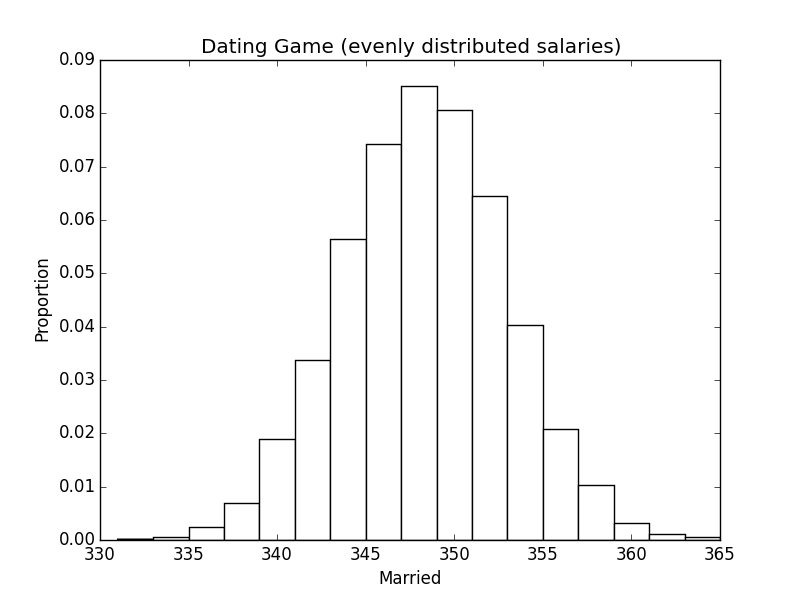
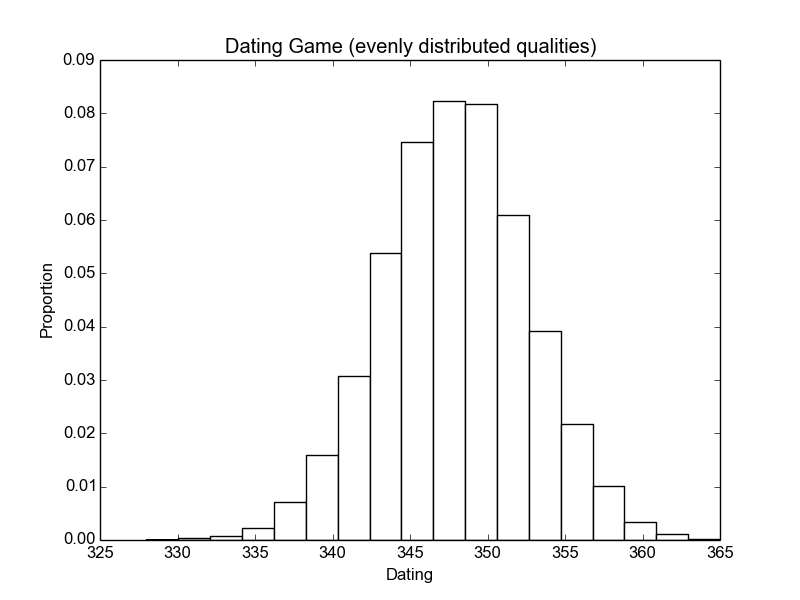
renamed some scripts in sim5 + added sim6 (gambling martingales and random walks)

diff --git a/src/sim5/quality_03.py b/src/sim5/quality_03.py
@@ -20,7 +20,7 @@ def simulation(men, women, pool_size):
 
 def print_results(results):
     print()
-    print('Dating Game (evenly distributed salaries)')
+    print('Dating Game (evenly distributed qualities)')
     print()
     print('           Minimum: %s' % (np.amin(results)))
     print('   25th Percentile: %s' % (np.percentile(results, 25)))
@@ -38,11 +38,11 @@ def print_results(results):
 def plot_results(results, pool_size):
     plt.clf()
     plt.figure(1, facecolor = 'w')
-    plt.hist(results, color = 'white', bins = (np.max(results) - np.min(results)) / 2, normed = True)
-    plt.title('Dating Game (evenly distributed salaries)')
-    plt.xlabel('Salary')
+    plt.hist(results, color = 'white', bins = (np.max(results) - np.min(results)), normed = True)
+    plt.title('Dating Game (evenly distributed qualities)')
+    plt.xlabel('Quality')
     plt.ylabel('Proportion')
-    plt.savefig('./src/sim5/images/salary_even_%s_%s.png' % (pool_size, len(results)), format = 'png')
+    plt.savefig('./src/sim5/images/quality_even_%s_%s.png' % (pool_size, len(results)), format = 'png')
     plt.close()
 
 
@@ -53,8 +53,8 @@ def main(argv):
 
     results = []
     for _ in range(iterations):
-        men     = [200 * (float(val) / pool_size) for val in range(pool_size)]
-        women   = [200 * (float(val) / pool_size) for val in range(pool_size)]
+        men     = [100 * (float(val) / pool_size) for val in range(pool_size)]
+        women   = [100 * (float(val) / pool_size) for val in range(pool_size)]
         results.append(simulation(men, women, pool_size))
 
     print_results(results)

diff --git a/src/sim5/quality_01.py b/src/sim5/quality_01.py
@@ -20,7 +20,7 @@ def simulation(men, women, pool_size):
 
 def print_results(results):
     print()
-    print('Dating Game (uniformly distributed salaries)')
+    print('Dating Game (uniformly distributed qualities)')
     print()
     print('           Minimum: %s' % (np.amin(results)))
     print('   25th Percentile: %s' % (np.percentile(results, 25)))
@@ -39,10 +39,10 @@ def plot_results(results, pool_size):
     plt.clf()
     plt.figure(1, facecolor = 'w')
     plt.hist(results, color = 'white', bins = (np.max(results) - np.min(results)) / 2, normed = True)
-    plt.title('Dating Game (uniformly distributed salaries)')
-    plt.xlabel('Salary')
+    plt.title('Dating Game (uniformly distributed qualities)')
+    plt.xlabel('Quality')
     plt.ylabel('Proportion')
-    plt.savefig('./src/sim5/images/salary_uniform_%s_%s.png' % (pool_size, len(results)), format = 'png')
+    plt.savefig('./src/sim5/images/quality_uniform_%s_%s.png' % (pool_size, len(results)), format = 'png')
     plt.close()
 
 
@@ -53,8 +53,8 @@ def main(argv):
 
     results = []
     for _ in range(iterations):
-        men     = np.random.random_integers(0, 200, pool_size).tolist()
-        women   = np.random.random_integers(0, 200, pool_size).tolist()
+        men     = np.random.random_integers(0, 100, pool_size).tolist()
+        women   = np.random.random_integers(0, 100, pool_size).tolist()
         results.append(simulation(men, women, pool_size))
 
     print_results(results)

diff --git a/src/sim6/gamble_02.py b/src/sim6/gamble_02.py
@@ -1,0 +1,63 @@
+import sys
+import random
+
+import numpy             as np
+import matplotlib.pyplot as plt
+
+
+
+def simulation(amount, margin):
+    target = amount + margin
+    stake  = 1
+
+    while 0 < amount < target:
+        if random.random() < 0.5:
+            amount += stake
+        else:
+            amount -= stake
+            stake  *= 2
+
+    return amount > 0
+
+
+
+def print_results(iterations, count, margin, amount):
+    winnings   = count * margin
+    losses     = (iterations - count) * amount
+    proportion = count / float(iterations)
+
+    print()
+    print('Gambling Simulation - %s iterations' % (iterations))
+    print()
+    print(' Probability')
+    print('       Successes: %15s'   % (count))
+    print('      Proportion: %15.3f' % (proportion))
+    print(' Expected Profit: %15.3f' % ((proportion * margin) - ((1 - proportion) * amount)))
+    print()
+    print(' Balance Sheet')
+    print('  Total Winnings: %15.3f' % (winnings))
+    print('    Total Losses: %15.3f' % (losses))
+    print('   Actual Profit: %15.3f' % (winnings - losses))
+    print()
+    print()
+
+
+
+def main(argv):
+    iterations = int(argv[0])
+    amount     = int(argv[1])
+    margin     = int(argv[2])
+
+    count      = 0
+
+    for _ in range(iterations):
+        if simulation(amount, margin):
+            count += 1
+
+
+    print_results(iterations, count, margin, amount)
+
+
+
+if __name__ == "__main__":
+    main(sys.argv[1:])

diff --git a/src/sim5/quality_02.py b/src/sim5/quality_02.py
@@ -20,7 +20,7 @@ def simulation(men, women, pool_size):
 
 def print_results(results):
     print()
-    print('Dating Game (normaly distributed salaries)')
+    print('Dating Game (normaly distributed qualities)')
     print()
     print('           Minimum: %s' % (np.amin(results)))
     print('   25th Percentile: %s' % (np.percentile(results, 25)))
@@ -39,10 +39,10 @@ def plot_results(results, pool_size):
     plt.clf()
     plt.figure(1, facecolor = 'w')
     plt.hist(results, color = 'white', bins = (np.max(results) - np.min(results)), normed = True)
-    plt.title('Dating Game (normaly distributed salaries)')
-    plt.xlabel('Salary')
+    plt.title('Dating Game (normaly distributed qualities)')
+    plt.xlabel('Quality')
     plt.ylabel('Proportion')
-    plt.savefig('./src/sim5/images/salary_normal_%s_%s.png' % (pool_size, len(results)), format = 'png')
+    plt.savefig('./src/sim5/images/quality_normal_%s_%s.png' % (pool_size, len(results)), format = 'png')
     plt.close()
 
 
@@ -53,8 +53,8 @@ def main(argv):
 
     results = []
     for _ in range(iterations):
-        men     = np.random.normal(100, 33, pool_size).tolist()
-        women   = np.random.normal(100, 33, pool_size).tolist()
+        men     = np.random.normal(50, 17, pool_size).tolist()
+        women   = np.random.normal(50, 17, pool_size).tolist()
         results.append(simulation(men, women, pool_size))
 
     print_results(results)

diff --git a/src/sim6/gamble_01.py b/src/sim6/gamble_01.py
@@ -1,0 +1,51 @@
+import sys
+import random
+
+import numpy             as np
+import pandas            as pd
+import matplotlib.pyplot as plt
+
+
+
+def plot_results(results, iterations, initial, margin):
+    plt.clf()
+    plt.figure(1, facecolor = 'w')
+    plt.plot(range(len(results)), results)
+    plt.title('Gamble: %s iterations' % iterations)
+    plt.xlabel('Index')
+    plt.ylabel('Value')
+    plt.savefig('./src/sim6/images/gamble_%s_%s_%s.png' % (iterations, initial, margin), format = 'png')
+    plt.close()
+
+
+
+def main(argv):
+    iterations = int(argv[0])
+    initial    = int(argv[1])
+    margin     = int(argv[2])
+    target     = initial + margin
+
+
+    results        = np.zeros((iterations, 3))
+    results[:, 0]  = np.random.sample(iterations)
+    results[:, 1]  = 1
+    results[0, 2]  = initial
+
+
+    for i in range(1, iterations):
+        if 0 < results[i - 1, 2] < target:
+            if results[i - 1, 0] < 0.5:
+                results[i, 2]  = results[i - 1, 2] + results[i - 1, 1]
+            else:
+                results[i, 2]  = results[i - 1, 2] - results[i - 1, 1]
+                results[i, 1]  = 2 * results[i - 1, 1]
+        else:
+            break
+
+
+    plot_results(results[results[:, 2] > 0, 2], iterations, initial, margin)
+
+
+
+if __name__ == "__main__":
+    main(sys.argv[1:])

diff --git a/src/sim5/dating_03.py b/src/sim5/dating_03.py
@@ -23,7 +23,7 @@ def simulation(men, women, pool_size):
 
 def print_results(results):
     print()
-    print('Dating Game (evenly distributed salaries)')
+    print('Dating Game (evenly distributed qualities)')
     print()
     print('           Minimum: %s' % (np.amin(results)))
     print('   25th Percentile: %s' % (np.percentile(results, 25)))
@@ -42,7 +42,7 @@ def plot_results(results, pool_size):
     plt.clf()
     plt.figure(1, facecolor = 'w')
     plt.hist(results, color = 'white', bins = (np.max(results) - np.min(results)) / 2, normed = True)
-    plt.title('Dating Game (evenly distributed salaries)')
+    plt.title('Dating Game (evenly distributed qualities)')
     plt.xlabel('Dating')
     plt.ylabel('Proportion')
     plt.savefig('./src/sim5/images/dating_even_%s_%s.png' % (pool_size, len(results)), format = 'png')
@@ -56,8 +56,8 @@ def main(argv):
 
     results = []
     for _ in range(iterations):
-        men     = [200 * (float(val) / pool_size) for val in range(pool_size)]
-        women   = [200 * (float(val) / pool_size) for val in range(pool_size)]
+        men     = [100 * (float(val) / pool_size) for val in range(pool_size)]
+        women   = [100 * (float(val) / pool_size) for val in range(pool_size)]
         results.append(simulation(men, women, pool_size))
 
     print_results(results)

diff --git a/src/sim5/dating_01.py b/src/sim5/dating_01.py
@@ -23,7 +23,7 @@ def simulation(men, women, pool_size):
 
 def print_results(results):
     print()
-    print('Dating Game (uniformly distributed salaries)')
+    print('Dating Game (uniformly distributed qualities)')
     print()
     print('           Minimum: %s' % (np.amin(results)))
     print('   25th Percentile: %s' % (np.percentile(results, 25)))
@@ -42,7 +42,7 @@ def plot_results(results, pool_size):
     plt.clf()
     plt.figure(1, facecolor = 'w')
     plt.hist(results, color = 'white', bins = (np.max(results) - np.min(results)) / 2, normed = True)
-    plt.title('Dating Game (uniformly distributed salaries)')
+    plt.title('Dating Game (uniformly distributed qualities)')
     plt.xlabel('Dating')
     plt.ylabel('Proportion')
     plt.savefig('./src/sim5/images/dating_uniform_%s_%s.png' % (pool_size, len(results)), format = 'png')
@@ -56,8 +56,8 @@ def main(argv):
 
     results = []
     for _ in range(iterations):
-        men     = np.random.random_integers(0, 200, pool_size).tolist()
-        women   = np.random.random_integers(0, 200, pool_size).tolist()
+        men     = np.random.random_integers(0, 100, pool_size).tolist()
+        women   = np.random.random_integers(0, 100, pool_size).tolist()
         results.append(simulation(men, women, pool_size))
 
     print_results(results)

diff --git a/src/sim5/dating_02.py b/src/sim5/dating_02.py
@@ -23,7 +23,7 @@ def simulation(men, women, pool_size):
 
 def print_results(results):
     print()
-    print('Dating Game (normaly distributed salaries)')
+    print('Dating Game (normaly distributed qualities)')
     print()
     print('           Minimum: %s' % (np.amin(results)))
     print('   25th Percentile: %s' % (np.percentile(results, 25)))
@@ -42,7 +42,7 @@ def plot_results(results, pool_size):
     plt.clf()
     plt.figure(1, facecolor = 'w')
     plt.hist(results, color = 'white', bins = (np.max(results) - np.min(results)) / 2, normed = True)
-    plt.title('Dating Game (normaly distributed salaries)')
+    plt.title('Dating Game (normaly distributed qualities)')
     plt.xlabel('Dating')
     plt.ylabel('Proportion')
     plt.savefig('./src/sim5/images/dating_normal_%s_%s.png' % (pool_size, len(results)), format = 'png')
@@ -56,8 +56,8 @@ def main(argv):
 
     results = []
     for _ in range(iterations):
-        men     = np.random.normal(100, 33, pool_size).tolist()
-        women   = np.random.normal(100, 33, pool_size).tolist()
+        men     = np.random.normal(50, 17, pool_size).tolist()
+        women   = np.random.normal(50, 17, pool_size).tolist()
         results.append(simulation(men, women, pool_size))
 
     print_results(results)

diff --git a/src/sim6/random_walk_01.py b/src/sim6/random_walk_01.py
@@ -1,0 +1,48 @@
+import sys
+import random
+
+import numpy             as np
+import pandas            as pd
+import matplotlib.pyplot as plt
+
+
+
+def simulation(value, iterations):
+    results = []
+
+    for _ in range(iterations):
+        if random.random() < 0.5:
+            value += 1
+        else:
+            value -= 1
+
+        results.append(value)
+
+    return results
+
+
+
+def plot_results(results, iterations):
+    plt.clf()
+    plt.figure(1, facecolor = 'w')
+    plt.plot(range(iterations), results)
+    plt.title('Random Walk: %s iterations' % iterations)
+    plt.xlabel('Index')
+    plt.ylabel('Value')
+    plt.savefig('./src/sim6/images/random_walk_%s.png' % (iterations), format = 'png')
+    plt.close()
+
+
+
+def main(argv):
+    iterations = int(argv[0])
+    initial    = int(argv[1])
+
+    results    = simulation(initial, iterations)
+
+    plot_results(results, iterations)
+
+
+
+if __name__ == "__main__":
+    main(sys.argv[1:])
